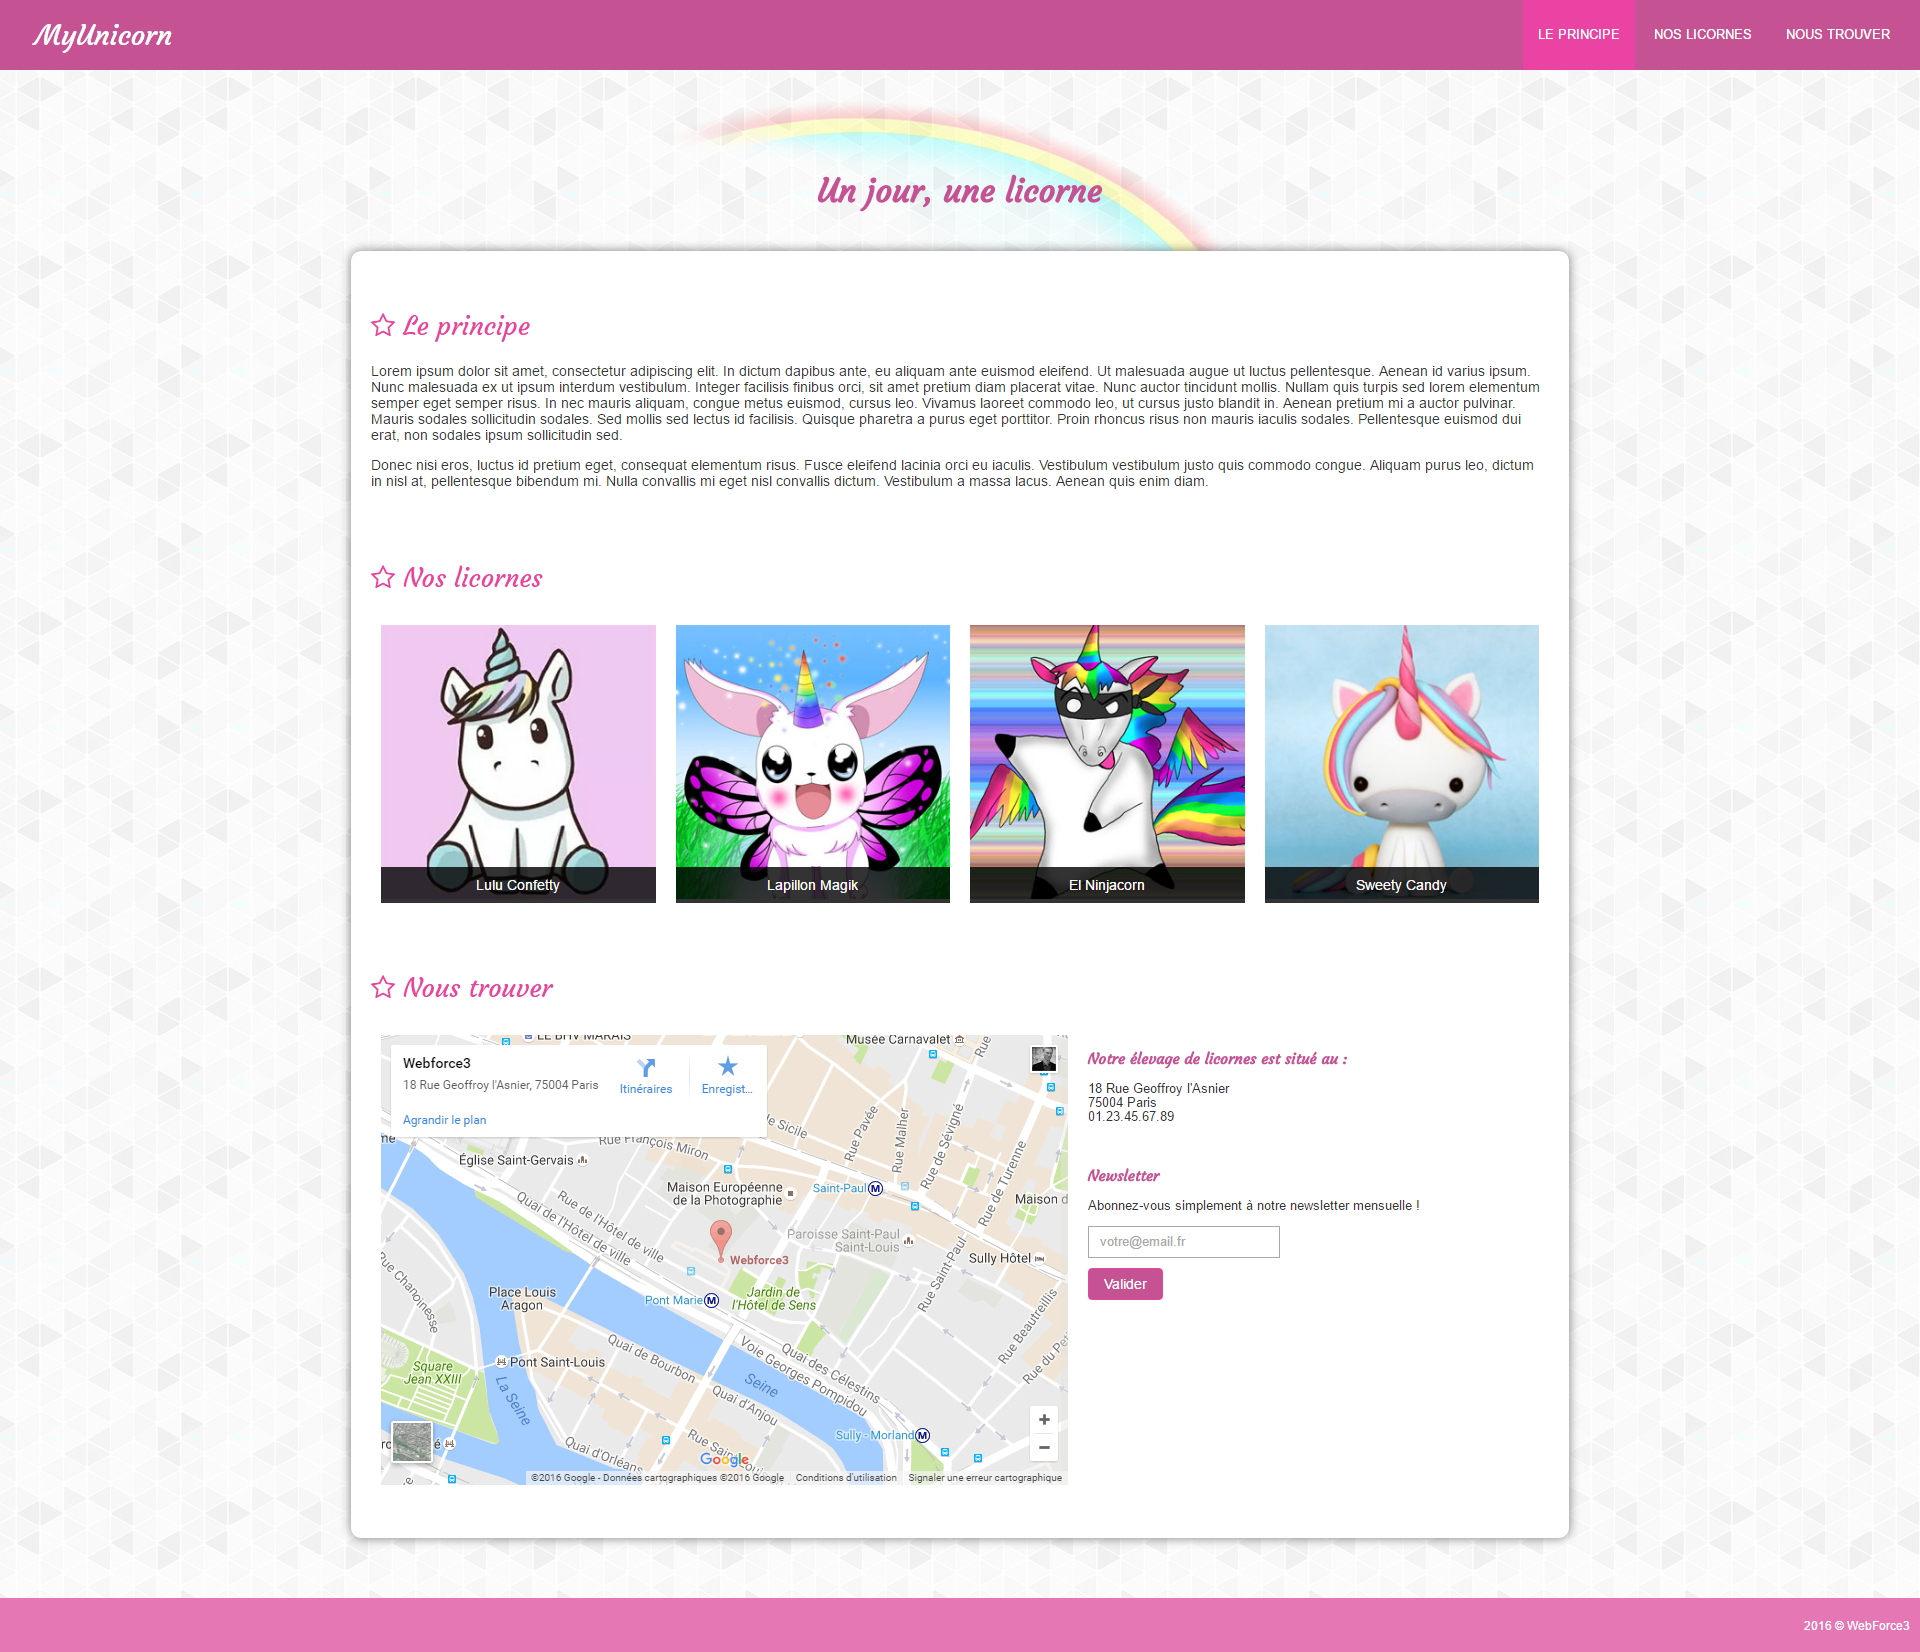
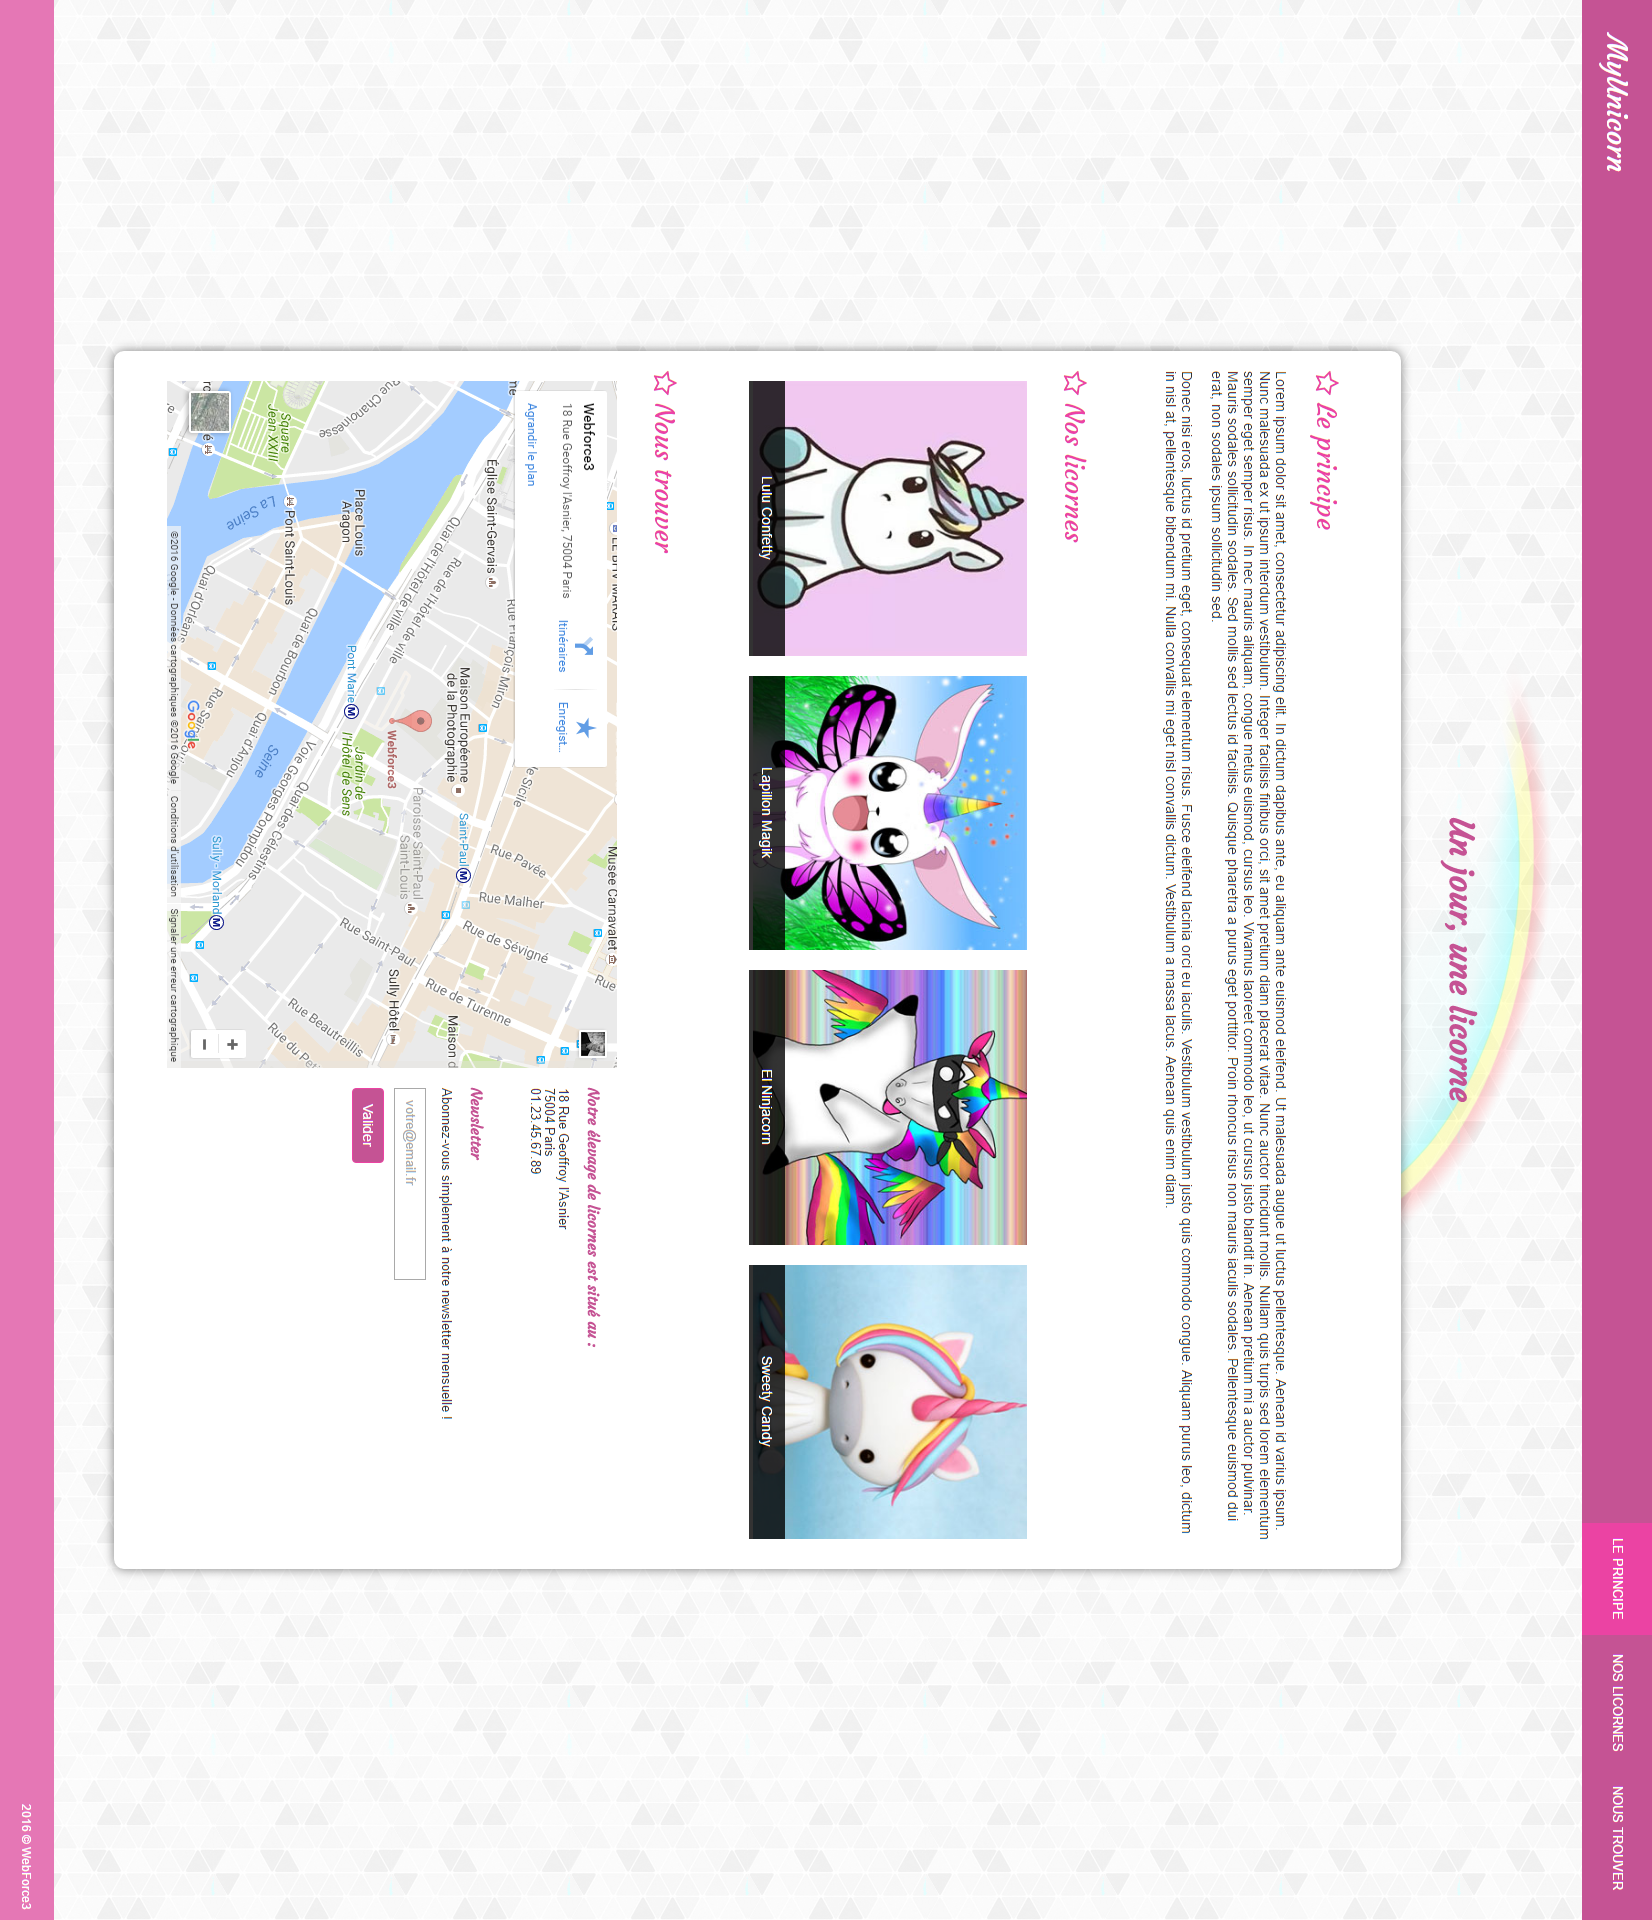
cours bootstrap 16/04/2019

diff --git a/entrainement/unicorns/index_bootstrap.html b/entrainement/unicorns/index_bootstrap.html
@@ -36,16 +36,76 @@
             </ul>
         </div>
     </nav>
-        <header></header>
-        <main>
-            <section class="row"></sectionc>
-            <section class="row"></section>
-            <section class="row"></section>
+        <header>
+            <h1 class="col-md-12 text text-center">Un jour, une licorne</h1>
+        </header>
+        <main class="container">
+            <section class="row">
+                <h3 class="col-md-12">Le principe</h3>
+                <div>
+                    <p>Lorem ipsum dolor sit amet, consectetur adipiscing elit. In dictum dapibus ante, eu aliquam ante euismod eleifend. Ut
+                    malesuada augue ut luctus pellentesque. Aenean id varius ipsum. Nunc malesuada ex ut ipsum interdum vestibulum. Integer
+                    facilisis finibus orci, sit amet pretium diam placerat vitae. Nunc auctor tincidunt mollis. Nullam quis turpis sed lorem
+                    elementum semper eget semper risus. In nec mauris aliquam, congue metus euismod, cursus leo. Vivamus laoreet commodo
+                    leo, ut cursus justo blandit in. Aenean pretium mi a auctor pulvinar. Mauris sodales sollicitudin sodales. Sed mollis
+                    sed lectus id facilisis. Quisque pharetra a purus eget porttitor. Proin rhoncus risus non mauris iaculis sodales.
+                    Pellentesque euismod dui erat, non sodales ipsum sollicitudin sed.
+                    
+                    Donec nisi eros, luctus id pretium eget, consequat elementum risus. Fusce eleifend lacinia orci eu iaculis. Vestibulum
+                    vestibulum justo quis commodo congue. Aliquam purus leo, dictum in nisl at, pellentesque bibendum mi. Nulla convallis mi
+                    eget nisl convallis dictum. Vestibulum a massa lacus. Aenean quis enim diam.
+</p>
+                </div>
+            </sectionc>
+            <section class="row">
+                <h3 class="col-md-12">Nos licornes</h3>
+                <div class="col-md-3">
+                    <img src="img/photo1.jpg" alt="">
+                    
+                </div>
+                <div class="col-md-3">
+                    <img src="img/photo2.jpg" alt="">
+
+                </div>
+                <div class="col-md-3">
+                    <img src="img/photo3.jpg" alt="">
+
+                </div>
+                <div class="col-md-3">
+                    <img src="img/photo4.jpg" alt="">
+
+                </div>
+            </section>
+            <section class="row">
+                <h3 class="col-md-12">Nous trouver</h3>
+                <iframe
+                    src="https://www.google.com/maps/embed?pb=!1m18!1m12!1m3!1d2628.4905679497538!2d2.3857223156720413!3d48.79161517928098!2m3!1f0!2f0!3f0!3m2!1i1024!2i768!4f13.1!3m3!1m2!1s0x47e6739446855555%3A0x24f37a5c383487aa!2s7+Avenue+Maximilien+Robespierre%2C+94400+Vitry-sur-Seine!5e0!3m2!1sfr!2sfr!4v1555428038225!5m2!1sfr!2sfr"
+                    width="600" height="450" frameborder="0" style="border:0" allowfullscreen class="col-md-6"></iframe>
+                <div class="col-md-6">
+                    <h4 class="">Notre élevage de licornes est situé au :</h4>
+                    <p class="">18 Rue Geoffroy l'Asnier<br>75004 Paris<br>01.23.45.67.89</p>
+                    <div class="">
+                        <h4>Newsletter</h4>
+                        <form class="">
+                            <div class="form-group">
+                                <label for="exampleInputEmail1">Abonnez-vous simplement à notre newsletter mensuelle !</label>
+                                <input type="email" class="form-control" id="exampleInputEmail1" aria-describedby="emailHelp"
+                                    placeholder="Votre email">
+                            </div>
+                            <button type="submit" class="btn btn-primary">Valider</button>
+                        </form>
+                    </div>
+                </div>
+                
+                
+            </section>
         </main>
-        <footer></footer>
+        <footer>
+            2016 &copy; Webforce3
+        </footer>
 
 
-        <h1>Unicorn Bootstrap</h1>
+        
 
         <!-- Optional JavaScript -->
         <!-- jQuery first, then Popper.js, then Bootstrap JS -->

diff --git a/entrainement/unicorns/css/style_bootstrap.css b/entrainement/unicorns/css/style_bootstrap.css
@@ -7,3 +7,9 @@
 .navbar-light{
     background-color: #EB43A3 !important;
 }
+main{
+    background-color: white;
+}
+footer{
+    background-color: #EB43A3 !important;
+}
